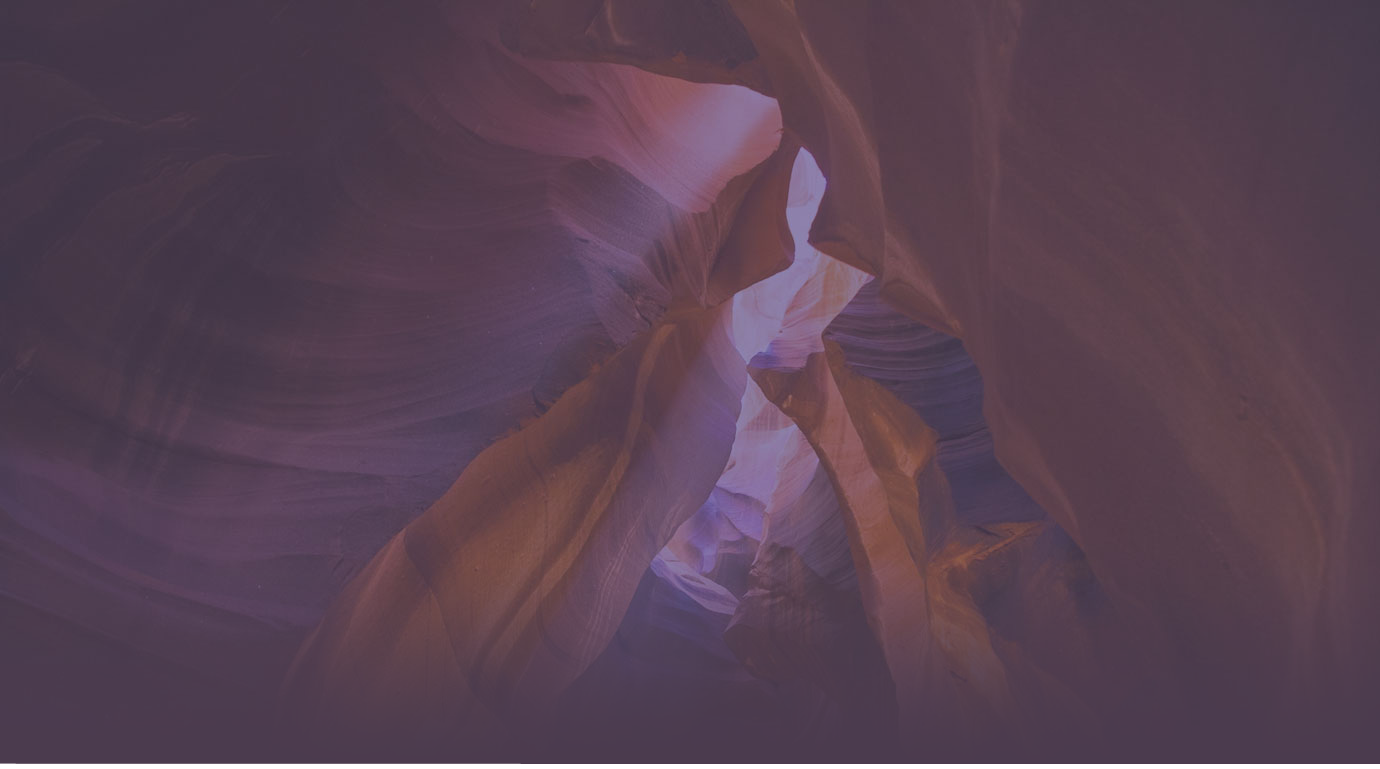
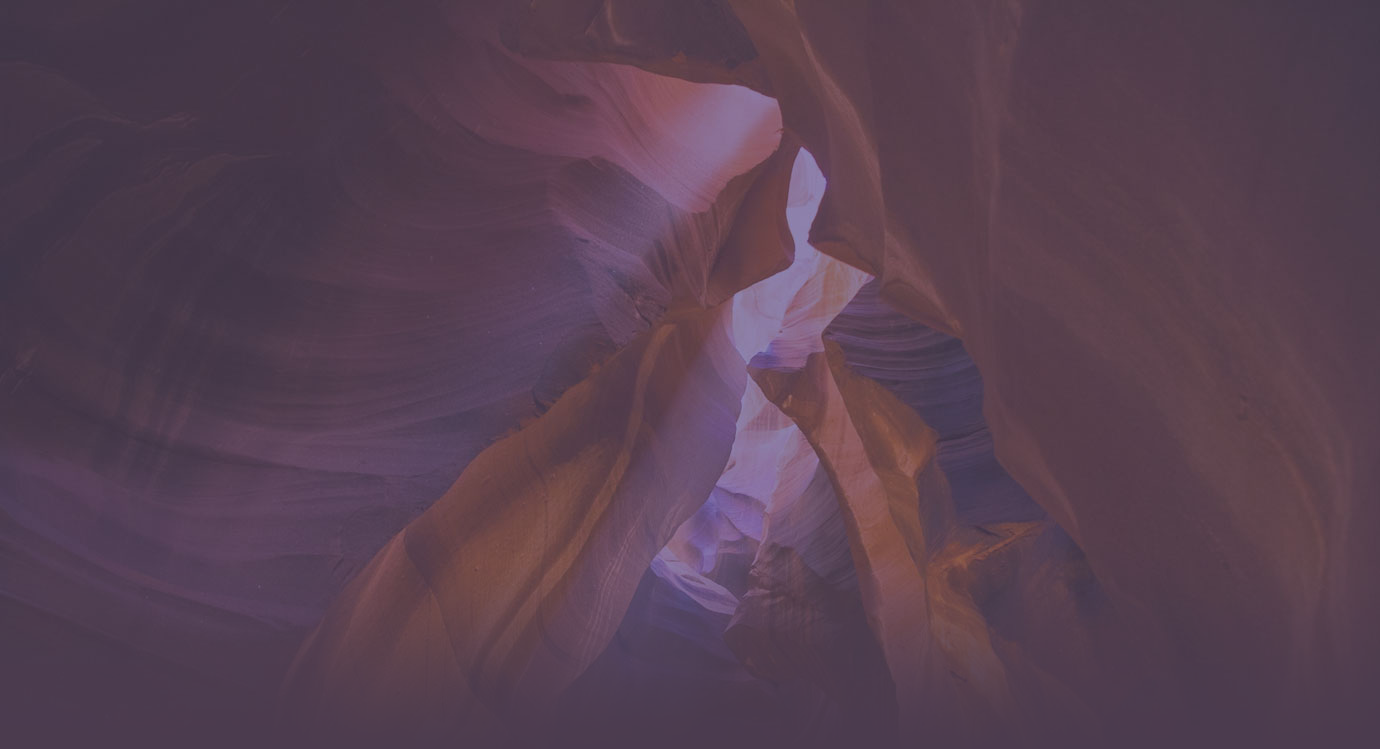
fixed some bugs

diff --git a/src/js/main.js b/src/js/main.js
@@ -2,6 +2,10 @@ const headerContainerLogo = document.querySelector(".header_container_logo");
 const purpleLogo = document.querySelector(".purple-logo");
 const whiteLogo = document.querySelector(".white-logo");
 
+const burgerBtn = document.querySelector(".header_container_navi_btn-menu");
+const headerContainerNaviList = document.querySelector(".header_container_navi_list");
+const visibleImage = document.querySelector(".visible");
+const hiddenImage = document.querySelector(".hidden");
 whiteLogo.style.display = "none";
 
 headerContainerLogo.addEventListener("mouseenter", function () {
@@ -13,12 +17,25 @@ headerContainerLogo.addEventListener('mouseleave', () => {
     whiteLogo.style.display = 'none';
 });
 
-const burgerBtn = document.querySelector(".header_container_navi_btn-menu");
-const headerContainerNaviList = document.querySelector(".header_container_navi_list");
-const visibleImage = document.querySelector(".visible");
-const hiddenImage = document.querySelector(".hidden");
-
 let statusNavOpen = "none"
+
+window.addEventListener('resize', () => {
+    let width = document.querySelector(".header").offsetWidth
+    if(width >= 481){
+        headerContainerNaviList.style.display = "flex";
+    } else {
+        statusNavOpen = "none"
+
+        visibleImage.classList.toggle("visible");
+        if(visibleImage.classList[1] == "hidden"){
+            statusNavOpen = "block"
+        }
+        headerContainerNaviList.style.display = statusNavOpen;
+
+    }
+})
+
+
 
 burgerBtn.addEventListener("click", function () {
     statusNavOpen = statusNavOpen === "none" ? "block" : "none"
@@ -31,12 +48,12 @@ burgerBtn.addEventListener("click", function () {
 
 document.addEventListener("click", function(event) {
     console.log(event.target.parentNode)
-        if (event.target.id !== "headerContainerNaviList" && event.target.id!=="naviBtnMenu" && event.target.parentNode.id!=="naviBtnMenu" && statusNavOpen!=="none"){
-            statusNavOpen = "none"
-            headerContainerNaviList.style.display = statusNavOpen;
-            visibleImage.classList.toggle("visible");
-            visibleImage.classList.toggle("hidden");
-            hiddenImage.classList.toggle("hidden");
-            hiddenImage.classList.toggle("visible");
-        }
+    if (event.target.id !== "headerContainerNaviList" && event.target.id!=="naviBtnMenu" && event.target.parentNode.id!=="naviBtnMenu" && statusNavOpen!=="none"){
+        statusNavOpen = "none"
+        headerContainerNaviList.style.display = statusNavOpen;
+        visibleImage.classList.toggle("visible");
+        visibleImage.classList.toggle("hidden");
+        hiddenImage.classList.toggle("hidden");
+        hiddenImage.classList.toggle("visible");
+    }
 })

diff --git a/src/scss/style.scss b/src/scss/style.scss
@@ -10,10 +10,10 @@ a {
 }
 
 .visible {
-  display: block;
+  display: block !important;
 }
 .hidden {
-  display: none;
+  display: none !important;
 }
 
 .header {
@@ -284,7 +284,7 @@ a {
 .content__list {
   margin: 0 auto;
   transform: translate(-50% -50%);
-  width: 405;
+  width: 405px;
   &__img {
     width: 111px;
     height: 64px;
@@ -293,12 +293,16 @@ a {
 }
 /*<!--<Here is what you get end>-->*/
 .people {
-  background: url("../img/testmonials-bg 1.png") no-repeat center;
-  background-size: cover;
   height: auto;
   position: relative;
   padding-bottom: 18px;
-
+  &_bg{ 
+    position: absolute;
+    width: 100%;
+    height: 100%;
+    z-index: -1;
+    top: 0;
+  }
   &_title {
     padding: 108px 10px 0 10px;
     font-size: 48px;
@@ -348,26 +352,20 @@ a {
     @include lato-regular();
   }
 
-  hr {
-    position: absolute;
-    margin: 0 auto;
+  &_hr {
+    margin: 18px auto 0 auto;
     height: 2px;
-    color: $dark-purple-color;
-    background-color: $dark-purple-color;
     width: 70%;
-    top: 99%;
-    left: 15%;
+    background: $dark-purple-color;
   }
 }
 /*<!-- /Fork Subscription Pricing start -->*/
 .footer_fork {
-  background: url("../img/background\ Fork\ Subscription\ Pricing.png")
+  background: url("../img/background Fork Subscription Pricing.png")
     no-repeat center;
   background-size: cover;
-  height: auto;
   position: relative;
   height: 847px;
-  margin-top: -7px;
   &__text {
     color: $white-color;
     text-align: center;

diff --git a/index.html b/index.html
@@ -195,6 +195,7 @@
    
     <!-- /<Here is what you get end> -->
     <div class="people">
+        <img class="people_bg" src="./src/img/testmonials-bg 1.png">
         <p class="people_title">People Are Talking About Fork</p>
         <div class="people_container">
             <div class="people_container_item">
@@ -251,7 +252,7 @@
             nibh. Donec eget elit eu libero tincidunt consequat nec elementum orci. Cum sociis natoque penatibus et
             magnis
             dis parturient montes, nascetur ridiculus mus.</p>
-        <hr>
+        <div class="people_hr"></div>
     </div>
     <!-- /Fork Subscription Pricing start -->
     <section class="footer_fork">
@@ -311,7 +312,7 @@
 
 
     <!-- /Fork Subscription Pricing end -->
-    <script src="dist/js/scripts.min.js" type="text/javascript"></script>
+        <script src="dist/js/scripts.min.js" type="text/javascript"></script>
 </body>
 
 </html>

diff --git a/src/scss/media-screen-tablet.scss b/src/scss/media-screen-tablet.scss
@@ -114,7 +114,6 @@
   }
   .footer_fork{
     height: auto;
-    margin-top: -5px;
     &__container{
       padding-bottom: 20px;
       width:75%;

diff --git a/src/scss/media-screen-mobile.scss b/src/scss/media-screen-mobile.scss
@@ -153,7 +153,6 @@
     }
   }
   .footer_fork{
-    margin-top: -13px;
     height: auto;
     &__container {
       width: 257px;
